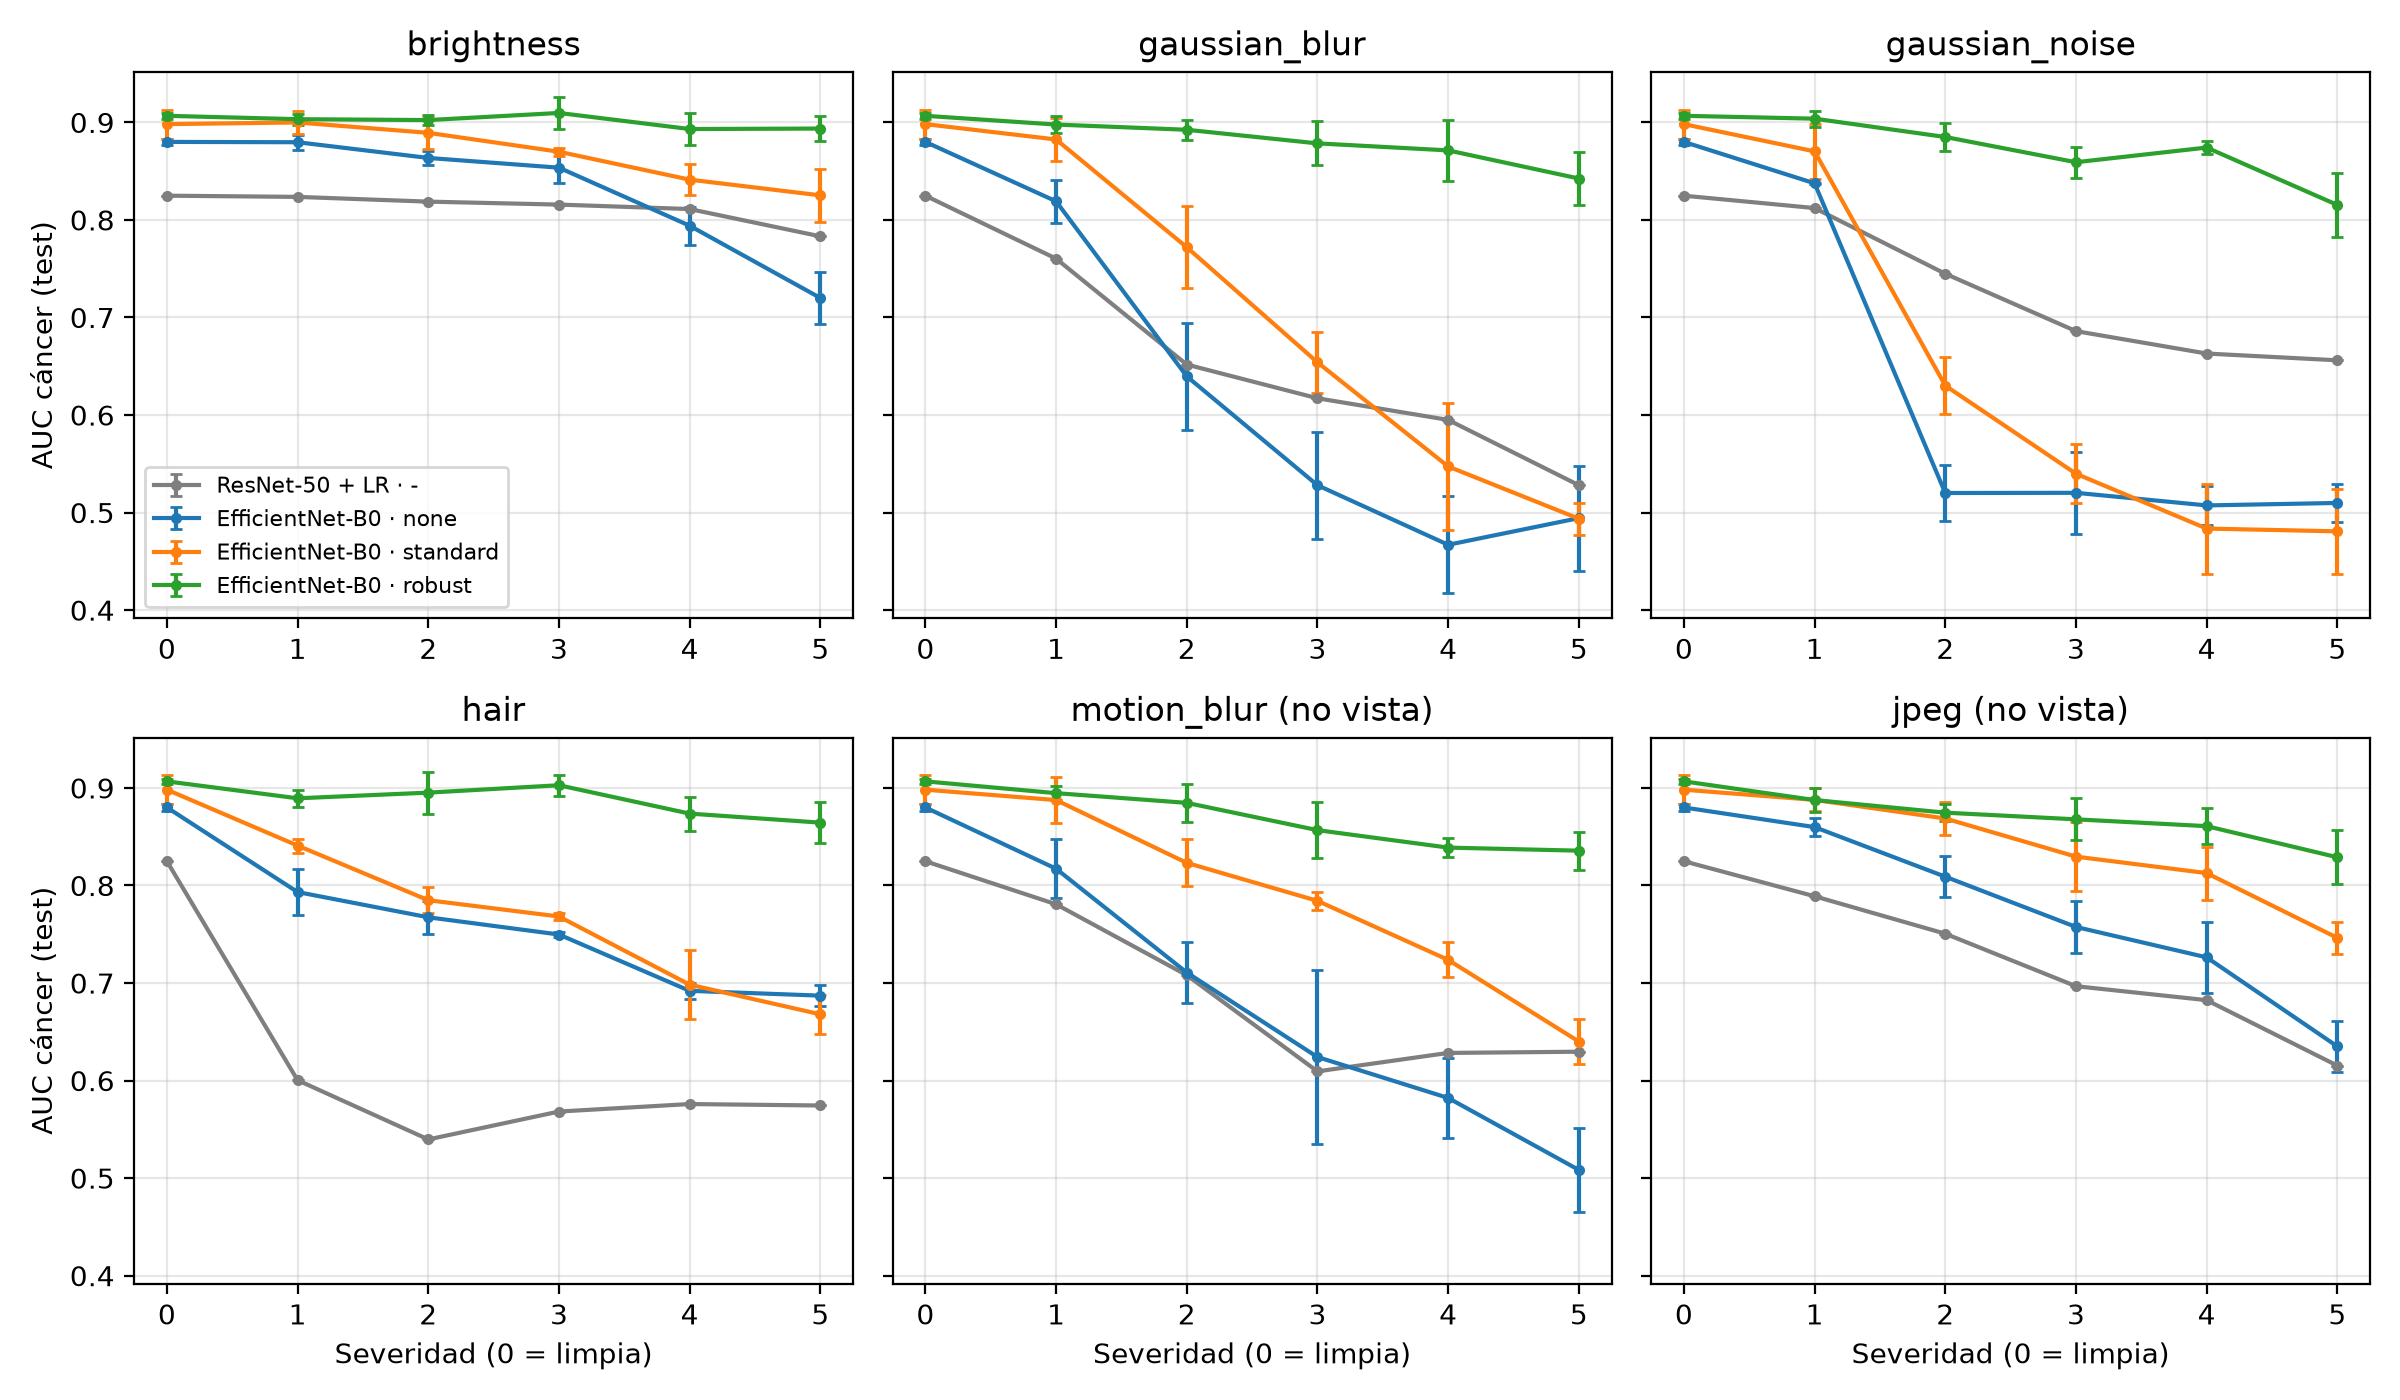
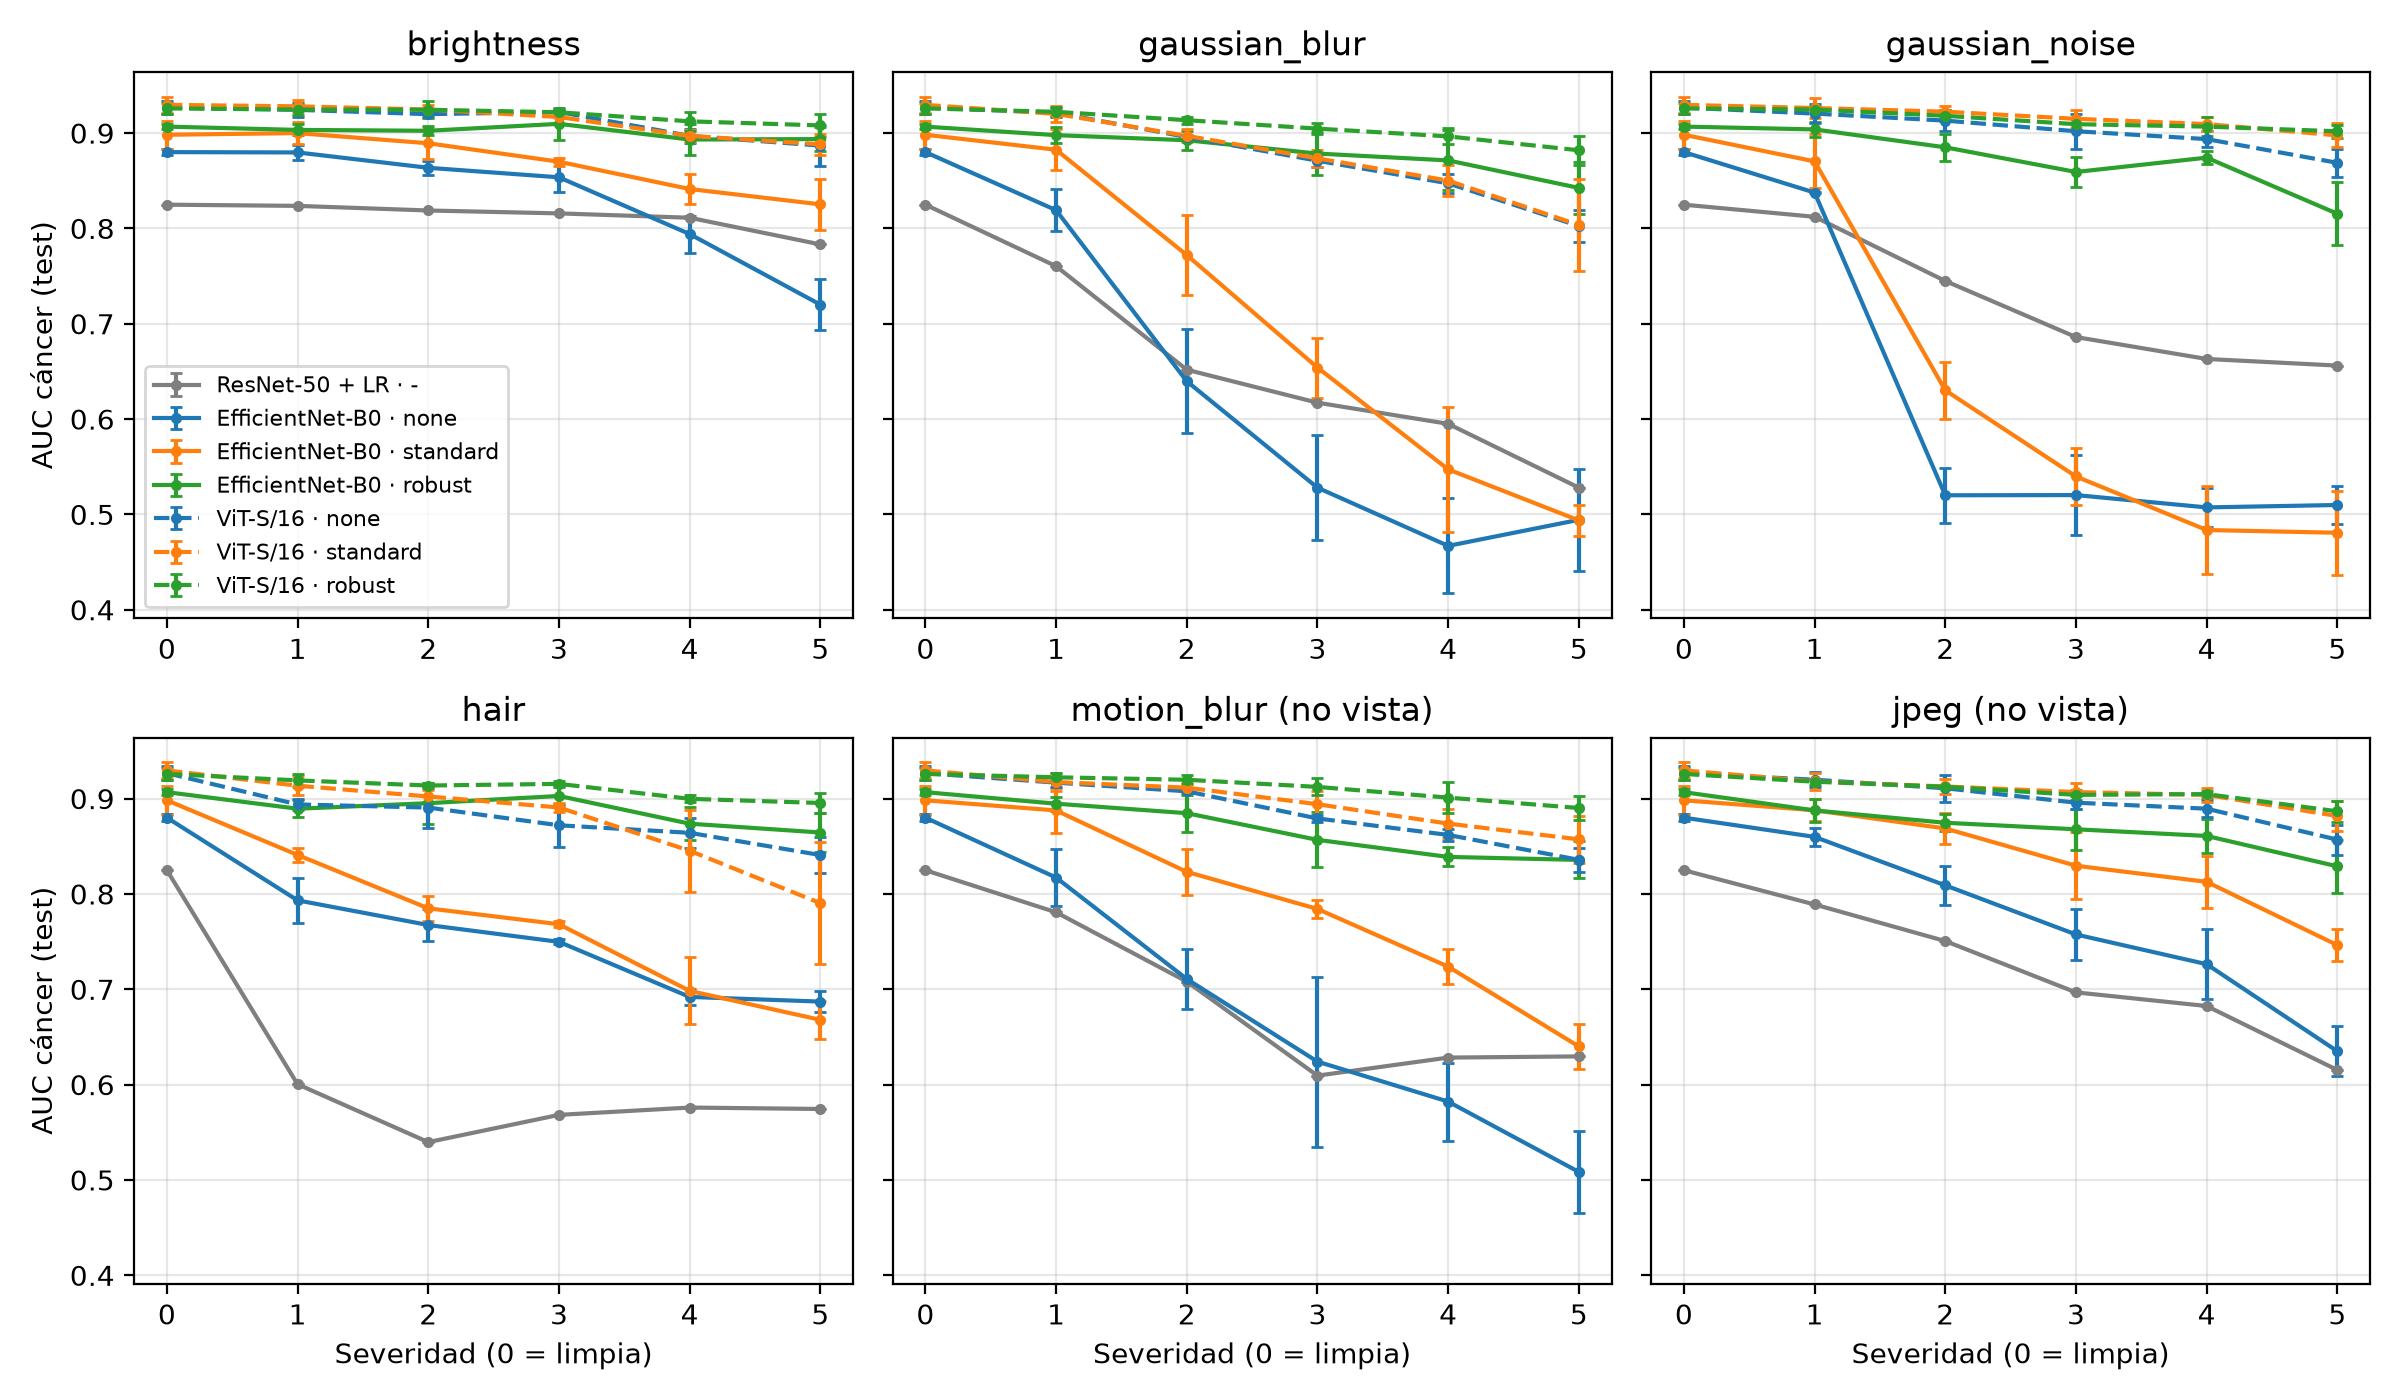
Se agrego diferencias emparejadas por bootstrap y tablas con ViT-S/16

diff --git a/src/evaluate.py b/src/evaluate.py
@@ -9,12 +9,13 @@ Operating point: threshold for 90% sensitivity fixed on val, applied unchanged t
 """
 import argparse
 import re
+from itertools import combinations
 from pathlib import Path
 
 import matplotlib.pyplot as plt
 import numpy as np
 import pandas as pd
-from scipy.stats import binomtest
+from scipy.stats import binomtest, rankdata
 from sklearn.metrics import balanced_accuracy_score, f1_score, roc_auc_score
 
 from src.data import CLASSES
@@ -57,6 +58,42 @@ def boot_auc_ci(ys, scores, groups, seed=0):
             continue
         stats.append(np.mean([roc_auc_score(ys[idx], s[idx]) for s in scores]))
     return np.percentile(stats, [2.5, 97.5])
+
+
+def fast_auc(y, scores):
+    """AUC of each row of scores (..., n) against boolean y, via Mann-Whitney ranks (ties averaged)."""
+    n1 = y.sum()
+    return (rankdata(scores, axis=-1)[..., y].sum(-1) - n1 * (n1 + 1) / 2) / (n1 * (len(y) - n1))
+
+
+def condition_scores(test, img_ids):
+    """p_cancer as (conditions, images): clean first, then each corruption x severity 1..5, aligned to img_ids."""
+    pc = test.assign(pc=p_cancer(test)).set_index(["corruption", "severity", "img_id"])["pc"]
+    conds = [("clean", 0)] + [(c, s) for c in SEEN + UNSEEN for s in range(1, 6)]
+    out = np.stack([pc.loc[c].reindex(img_ids).to_numpy() for c in conds])
+    assert not np.isnan(out).any(), "missing test rows"
+    return out
+
+
+def boot_paired(y, scores, groups, seed=0):
+    """Clean AUC and mean corrupted AUC (seed means) per key of scores {key: (seeds, conditions, n)}.
+
+    Returns the point estimate and N_BOOT patient resamples; every key sees the same resamples (paired)."""
+    def stat(idx):
+        out = {}
+        for k, s in scores.items():
+            auc = fast_auc(y[idx], s[..., idx]).mean(0)
+            out[k] = np.array([auc[0], auc[1:].mean()])
+        return out
+
+    rng = np.random.default_rng(seed)
+    idx_by_group = [np.flatnonzero(groups == g) for g in np.unique(groups)]
+    boots = []
+    for _ in range(N_BOOT):
+        idx = np.concatenate([idx_by_group[i] for i in rng.integers(len(idx_by_group), size=len(idx_by_group))])
+        if y[idx].min() != y[idx].max():
+            boots.append(stat(idx))
+    return stat(np.arange(len(y))), boots
 
 
 def clopper_pearson(k, n):
@@ -106,7 +143,7 @@ def main(preds_dir="results/preds", split_path="data/splits/pad_split.csv", tabl
          figures="results/figures"):
     Path(tables).mkdir(parents=True, exist_ok=True)
     patients = pd.read_csv(split_path).set_index("img_id")["patient_id"]
-    runs, aucs, clean_test = [], [], {}
+    runs, aucs, clean_test, test_all = [], [], {}, {}
     for f in sorted(Path(preds_dir).glob("*.csv")):
         preds = pd.read_csv(f)
         model, aug, seed = parse_run(f.stem)
@@ -114,6 +151,7 @@ def main(preds_dir="results/preds", split_path="data/splits/pad_split.csv", tabl
         runs.append(dict(run_id=f.stem, model=model, aug=aug, seed=seed, **row))
         aucs.append(auc.assign(run_id=f.stem, model=model, aug=aug, seed=seed))
         clean_test[f.stem] = preds.query("split == 'test' and corruption == 'clean'").sort_values("img_id")
+        test_all[f.stem] = preds[preds["split"] == "test"]
     runs, aucs = pd.DataFrame(runs), pd.concat(aucs, ignore_index=True)
     runs.to_csv(f"{tables}/per_run.csv", index=False, float_format="%.4f")
 
@@ -164,6 +202,33 @@ def main(preds_dir="results/preds", split_path="data/splits/pad_split.csv", tabl
               "Caída relativa de la AUC cáncer (\\%) bajo corrupción, promedio de las severidades 1--5 "
               "(media $\\pm$ sd entre semillas). motion blur y jpeg no se usan en la augmentation.")
 
+    # Paired differences (H1: aug vs aug within a model; H2: model vs model with the same aug).
+    first = clean_test[runs["run_id"].iloc[0]]
+    img_ids, y_test = first["img_id"].to_numpy(), first["y_true"].isin(CANCER_IDX).to_numpy()
+    scores = {k: np.stack([condition_scores(test_all[r], img_ids) for r in g["run_id"]])
+              for k, g in runs.groupby(["model", "aug"])}
+    pairs = [((m2, a), (m1, a)) for a in order
+             for m1, m2 in combinations(sorted(m for m, aa in scores if aa == a), 2)]
+    pairs += [((m, a2), (m, a1)) for m in sorted({m for m, _ in scores})
+              for a1, a2 in combinations(["none", "standard", "robust"], 2) if (m, a1) in scores and (m, a2) in scores]
+    full, boots = boot_paired(y_test, scores, patients.loc[img_ids].to_numpy())
+    paired_rows = []
+    for a, b in pairs:
+        d = np.array([bt[a] - bt[b] for bt in boots])
+        lo, hi = np.percentile(d, [2.5, 97.5], axis=0)
+        point = full[a] - full[b]
+        name = (f"{label(*a)[0]} - {label(*b)[0]} ({a[1]})" if a[0] != b[0] else f"{label(*a)[0]}: {a[1]} - {b[1]}")
+        paired_rows.append({"Comparación": name, "Dif. AUC limpia": f"{point[0]:+.3f}",
+                            "IC 95 % (limpia)": f"[{lo[0]:+.3f}, {hi[0]:+.3f}]",
+                            "Dif. AUC con corrupción": f"{point[1]:+.3f}",
+                            "IC 95 % (corrupción)": f"[{lo[1]:+.3f}, {hi[1]:+.3f}]"})
+    paired_df = pd.DataFrame(paired_rows)
+    paired_df.to_csv(f"{tables}/paired.csv", index=False)
+    write_tex(paired_df, f"{tables}/paired.tex",
+              "Diferencias emparejadas de AUC cáncer en test (media de semillas de cada grupo). Con corrupción: "
+              "media de las 30 condiciones (6 corrupciones $\\times$ 5 severidades). IC 95 \\% por bootstrap de "
+              "pacientes con los mismos remuestreos para ambos grupos.")
+
     # Figure: AUC vs severity, one panel per corruption, one line per (model, aug).
     fig, axes = plt.subplots(2, 3, figsize=(12, 7), sharey=True)
     styles = {"none": "C0", "standard": "C1", "robust": "C2", "-": "C7"}
@@ -190,6 +255,7 @@ def main(preds_dir="results/preds", split_path="data/splits/pad_split.csv", tabl
     print(main_df.iloc[:, :7].to_string(index=False))
     print(six_df.to_string(index=False))
     print(rob_df.to_string(index=False))
+    print(paired_df.to_string(index=False))
 
 
 def selftest():
@@ -215,7 +281,12 @@ def selftest():
         res = pd.read_csv(f"{d}/tables/per_run.csv").set_index("run_id")
         assert res.loc["perfect_none_s1", "auc"] == 1 and res.loc["perfect_none_s1", "bacc"] == 1
         assert abs(res.loc["random_none_s1", "auc"] - 0.5) < 0.1
+        paired = pd.read_csv(f"{d}/tables/paired.csv").iloc[0]
+        assert paired["Comparación"].startswith("random - perfect") and float(paired["Dif. AUC limpia"]) < -0.4
+        assert float(paired["IC 95 % (limpia)"].strip("[]").split(",")[1]) < 0
         test = df[df["split"] == "test"]
+        yb, s = test["y_true"].isin(CANCER_IDX).to_numpy(), np.round(rng.random(len(test)), 1)  # with ties
+        assert np.isclose(fast_auc(yb, s), roc_auc_score(yb, s))
         try:
             threshold_at_sensitivity(test)
             raise RuntimeError("threshold accepted test rows")

diff --git a/results/tables/paired.tex b/results/tables/paired.tex
@@ -1,0 +1,19 @@
+\begin{table}[t]
+\caption{Diferencias emparejadas de AUC cáncer en test (media de semillas de cada grupo). Con corrupción: media de las 30 condiciones (6 corrupciones $\times$ 5 severidades). IC 95 \% por bootstrap de pacientes con los mismos remuestreos para ambos grupos.}
+\label{tab:paired}
+\begin{tabular}{llccc}
+\toprule
+Comparación & Dif. AUC limpia & IC 95 \% (limpia) & Dif. AUC con corrupción & IC 95 \% (corrupción) \\
+\midrule
+ViT-S/16 - EfficientNet-B0 (none) & +0.047 & [+0.025, +0.070] & +0.198 & [+0.177, +0.220] \\
+ViT-S/16 - EfficientNet-B0 (standard) & +0.031 & [+0.009, +0.055] & +0.145 & [+0.125, +0.166] \\
+ViT-S/16 - EfficientNet-B0 (robust) & +0.019 & [+0.000, +0.038] & +0.034 & [+0.019, +0.050] \\
+EfficientNet-B0: standard - none & +0.018 & [-0.007, +0.043] & +0.059 & [+0.045, +0.071] \\
+EfficientNet-B0: robust - none & +0.027 & [+0.005, +0.050] & +0.187 & [+0.164, +0.207] \\
+EfficientNet-B0: robust - standard & +0.009 & [-0.009, +0.027] & +0.128 & [+0.110, +0.147] \\
+ViT-S/16: standard - none & +0.003 & [-0.012, +0.019] & +0.006 & [-0.007, +0.020] \\
+ViT-S/16: robust - none & -0.001 & [-0.018, +0.015] & +0.022 & [+0.005, +0.040] \\
+ViT-S/16: robust - standard & -0.004 & [-0.016, +0.007] & +0.017 & [+0.005, +0.027] \\
+\bottomrule
+\end{tabular}
+\end{table}

diff --git a/results/tables/robustness.tex b/results/tables/robustness.tex
@@ -9,6 +9,9 @@ ResNet-50 + LR & - & 1.7 & 23.6 & 13.6 & 30.7 & 18.6 & 14.3 & 17.4 & 16.5 \\
 EfficientNet-B0 & none & 6.6 $\pm$ 0.7 & 33.0 $\pm$ 4.0 & 34.2 $\pm$ 0.9 & 16.2 $\pm$ 1.1 & 26.3 $\pm$ 4.7 & 13.9 $\pm$ 0.5 & 22.5 $\pm$ 1.4 & 20.1 $\pm$ 2.6 \\
 EfficientNet-B0 & standard & 3.7 $\pm$ 0.9 & 25.4 $\pm$ 0.4 & 33.1 $\pm$ 1.5 & 16.3 $\pm$ 0.5 & 14.1 $\pm$ 1.5 & 7.7 $\pm$ 1.9 & 19.6 $\pm$ 0.6 & 10.9 $\pm$ 1.6 \\
 EfficientNet-B0 & robust & 0.7 $\pm$ 0.9 & 3.3 $\pm$ 1.9 & 4.3 $\pm$ 1.4 & 2.4 $\pm$ 1.1 & 4.9 $\pm$ 1.5 & 4.7 $\pm$ 1.6 & 2.7 $\pm$ 1.3 & 4.8 $\pm$ 1.5 \\
+ViT-S/16 & none & 1.8 $\pm$ 1.1 & 6.4 $\pm$ 0.7 & 2.9 $\pm$ 0.7 & 5.9 $\pm$ 1.0 & 5.0 $\pm$ 0.2 & 3.5 $\pm$ 0.3 & 4.2 $\pm$ 0.0 & 4.2 $\pm$ 0.0 \\
+ViT-S/16 & standard & 2.0 $\pm$ 0.6 & 6.5 $\pm$ 1.3 & 1.7 $\pm$ 0.8 & 6.6 $\pm$ 1.9 & 4.2 $\pm$ 0.7 & 2.7 $\pm$ 0.2 & 4.2 $\pm$ 0.3 & 3.4 $\pm$ 0.5 \\
+ViT-S/16 & robust & 0.8 $\pm$ 0.2 & 2.4 $\pm$ 0.4 & 1.5 $\pm$ 0.1 & 1.9 $\pm$ 0.6 & 1.8 $\pm$ 0.6 & 2.2 $\pm$ 0.7 & 1.6 $\pm$ 0.2 & 2.0 $\pm$ 0.3 \\
 \bottomrule
 \end{tabular}
 \end{table}

diff --git a/results/tables/main.tex b/results/tables/main.tex
@@ -9,6 +9,9 @@ ResNet-50 + LR & - & 0.825 & [0.773, 0.870] & 0.445 & 0.955 \\
 EfficientNet-B0 & none & 0.880 $\pm$ 0.003 & [0.842, 0.911] & 0.653 $\pm$ 0.015 & 0.906 $\pm$ 0.019 \\
 EfficientNet-B0 & standard & 0.898 $\pm$ 0.015 & [0.861, 0.930] & 0.782 $\pm$ 0.015 & 0.874 $\pm$ 0.039 \\
 EfficientNet-B0 & robust & 0.907 $\pm$ 0.003 & [0.872, 0.936] & 0.755 $\pm$ 0.035 & 0.887 $\pm$ 0.016 \\
+ViT-S/16 & none & 0.927 $\pm$ 0.007 & [0.897, 0.952] & 0.830 $\pm$ 0.022 & 0.874 $\pm$ 0.013 \\
+ViT-S/16 & standard & 0.930 $\pm$ 0.008 & [0.901, 0.954] & 0.805 $\pm$ 0.026 & 0.910 $\pm$ 0.040 \\
+ViT-S/16 & robust & 0.926 $\pm$ 0.006 & [0.894, 0.951] & 0.817 $\pm$ 0.041 & 0.880 $\pm$ 0.055 \\
 \bottomrule
 \end{tabular}
 \end{table}

diff --git a/results/tables/main_6class.tex b/results/tables/main_6class.tex
@@ -9,6 +9,9 @@ ResNet-50 + LR & - & 0.456 & 0.460 \\
 EfficientNet-B0 & none & 0.536 $\pm$ 0.026 & 0.544 $\pm$ 0.024 \\
 EfficientNet-B0 & standard & 0.589 $\pm$ 0.048 & 0.596 $\pm$ 0.049 \\
 EfficientNet-B0 & robust & 0.588 $\pm$ 0.036 & 0.579 $\pm$ 0.036 \\
+ViT-S/16 & none & 0.640 $\pm$ 0.029 & 0.661 $\pm$ 0.018 \\
+ViT-S/16 & standard & 0.662 $\pm$ 0.051 & 0.680 $\pm$ 0.047 \\
+ViT-S/16 & robust & 0.671 $\pm$ 0.025 & 0.671 $\pm$ 0.015 \\
 \bottomrule
 \end{tabular}
 \end{table}

diff --git a/README.md b/README.md
@@ -61,7 +61,7 @@ Escribe `results/logs/<run_id>.json`, `results/checkpoints/<run_id>.pt` y `resul
 .venv/bin/python -m src.evaluate --selftest # predicciones sintéticas: perfecta → AUC 1, aleatoria → ~0,5
 ```
 
-Genera `results/tables/main.tex` (AUC cáncer con IC 95 % por bootstrap de pacientes y especificidad a sensibilidad 90 %, umbral fijado en `val`), `main_6class.tex`, `robustness.tex`, los CSV correspondientes y `results/figures/robustness_curve.png`.
+Genera `results/tables/main.tex` (AUC cáncer con IC 95 % por bootstrap de pacientes y especificidad a sensibilidad 90 %, umbral fijado en `val`), `main_6class.tex`, `robustness.tex`, `paired.tex` (diferencias emparejadas de AUC entre augmentations y entre modelos, limpia y con corrupción), los CSV correspondientes y `results/figures/robustness_curve.png`.
 
 ## Estructura
 
